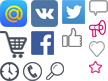
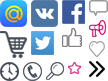
review page

diff --git a/reviews.html b/reviews.html
@@ -1,0 +1,183 @@
+<!DOCTYPE html>
+<html>
+  <head>
+    <meta charset="utf-8">
+    <title>Отзывы</title>
+    <meta name="viewport" content="width=device-width, initial-scale=1">
+    <meta name="format-detection" content="telephone=no">
+    <link rel="stylesheet" media="all" href="css/style.css">
+    <script src="js/app.js"></script>
+    <body class="page">
+      <!--BEGIN out-->
+      <div class="out">
+        <header class="site-header">
+          <nav class="main-menu">
+            <ul>
+              <li class="main-menu__item"><a href="">Главная</a></li>
+              <li class="main-menu__item"><a href="">Отзывы</a></li>
+              <li class="main-menu__item"><a href="">Возврат/Обмен</a></li>
+              <li class="main-menu__item"><a href="">Оплата</a></li>
+              <li class="main-menu__item"><a href="">Доставка</a></li>
+              <li class="main-menu__item"><a href="">Определить размер</a></li>
+              <li class="main-menu__item"><a href="">Частые вопросы</a></li>
+              <li class="main-menu__item"><a href="">Контакты</a></li>
+            </ul>
+          </nav>
+          <hr class="site-header__hr">
+          <div class="site-header__top">
+            <div class="container-wide">
+              <div class="site-header__slogan">
+                <p>Интернет-магазин брендовой обуви по всей России</p>
+              </div>
+              <div class="site-header__search search">
+                <input class="search__input" type="search" placeholder="Поиск">
+                <button class="search__btn" type="submit"></button>
+              </div>
+              <div class="site-header__choose">
+                <button class="btn btn-secondary">подобрать обувь</button>
+              </div>
+              <div class="site-header__hos"><i class="icon-clock"></i>
+                <p>Время работы<br><span class="text-red">Круглосуточно</span></p>
+              </div>
+              <div class="site-header__contacts"><i class="icon-phone"></i>
+                <p><a href="tel:89263787830">8 (926) 378 78 30</a><br><a href="mailto:we-run@mail.ru">we-run@mail.ru</a></p>
+              </div>
+              <div class="site-header__call">
+                <button class="btn btn-primary">ЗАКАЗАТЬ ЗВОНОК</button>
+              </div>
+              <div class="site-header__cart"><a href=""><i class="icon-cart"></i><span class="cart-amount"></span></a>
+                <p>Корзина</p>
+              </div>
+            </div>
+          </div>
+          <div class="site-header__middle">
+            <div class="site-header__menu">
+              <div class="container-wide">
+                <div class="site-header__logo"><a href="/">the-boots.ru</a></div>
+                <ul class="site-header__brands">
+                  <li><a href="">NIKE</a></li>
+                  <li><a href="">ADIDAS</a></li>
+                  <li><a href="">NEW BALANCE</a></li>
+                  <li><a href="">REEBOK</a></li>
+                  <li><a href="">PUMA</a></li>
+                  <li><a href="">ASICS</a></li>
+                  <li><a href="">SAUCONY</a></li>
+                  <li><a href="">CONVERSE</a></li>
+                  <li><a href="">VANS</a></li>
+                  <li><a href="">TIMBERLAND</a></li>
+                  <li><a href="">UGG AUSTRALIA</a></li>
+                </ul>
+                <div class="site-header__submenu">
+                  <ul>
+                    <li><a href="#">Новинки</a></li>
+                    <li><a href="#">Зимняя обувь</a></li>
+                    <li><a href="#">Баскетбольные</a></li>
+                    <li><a href="#">Кроссовки</a></li>
+                    <li><a href="#">Светящиеся кроссовки</a></li>
+                  </ul>
+                </div>
+              </div>
+            </div>
+            <div class="site-header__slider main-slider">
+              <div class="container-wide">
+                <div class="main-slider__bc">
+                  <ul>
+                    <li> <a href>каталог</a></li>
+                    <li>  <a href>Кроссовки</a></li>
+                    <li>  <a href>Nike</a></li>
+                    <li><a href>nike air max 90 glow in dark</a></li>
+                  </ul>
+                </div>
+                <div class="main-slider__text">
+                  <p>брендовые кроссовки<br> всего от<span class="text-red"> 2800 рублей</span></p>
+                  <button class="btn btn-primary">ПОСМОТРЕТЬ</button>
+                </div>
+              </div>
+            </div>
+          </div>
+        </header>
+        <div class="container-wide">
+          <div class="section right-col">
+            <h1 class="right-col__heading text-red">ОТЗЫВЫ</h1>
+            <div class="right-col__text">
+              <p>Мы гордимся тем, что публикуем только реальные отзывы настоящих людей, а не самописанные как широко практикуются недобросовестными "интернет-магазинами". Вы можете легко проверить реальность отзывов - для этого мы дали вам как можно больше информации по каждому из них. Благодарим этих покупателей за разрешение на публикацию их отзывов;) </p>
+              <p>Также хочется заметить, что мы дорожим Вашим временем. Поэтому за любой отзыв в независимости позитивный или негативный мы предоставляем скидочный купон на следующую покупку. Для нас действительно важен каждый отзыв. Спасибо Вам;) </p>
+            </div>
+            <hr class="right-col__hr">
+          </div>
+        </div>
+        <div class="subscribe">
+          <div class="container-small">
+            <p class="subscribe__text">Подпишитесь на нашу рассылку<br><span class="text-red">И ПОЛУЧАЙТЕ НОВОСТИ ПЕРВЫМИ!</span></p>
+            <div class="subscribe__form">
+              <form action="">
+                <input class="subscribe__input" type="email" placeholder="Введите e-mail">
+                <button class="btn btn-primary subscribe__btn" type="submit">ПОДПИСАТЬСЯ</button>
+              </form>
+            </div>
+          </div>
+        </div>
+        <footer class="site-footer">
+          <div class="container-small">
+            <div class="footer-list">
+              <div class="footer-list__item">
+                <p class="text-red">Кабинет покупателя:</p>
+                <ul>
+                  <li><a href="">Войти</a></li>
+                  <li><a href="">Создать учетную запись</a></li>
+                  <li><a href="">Заказы</a></li>
+                  <li><a href="">Как определить разммер</a></li>
+                </ul>
+              </div>
+              <div class="footer-list__item">
+                <p class="text-red">Каталог:</p>
+                <ul class="footer-list__catalog">
+                  <li><a href="">Светящие кроссовки</a></li>
+                  <li><a href="">Новинки</a></li>
+                  <li><a href="">Светящие кроссовки</a></li>
+                  <li><a href="">Новинки</a></li>
+                </ul>
+                <ul class="footer-list__catalog">
+                  <li><a href="">Кроссовки</a></li>
+                  <li><a href="">Кеды</a></li>
+                  <li><a href="">Ботинки</a></li>
+                  <li><a href="">Угги</a></li>
+                </ul>
+              </div>
+              <div class="footer-list__item">
+                <ul class="footer-list__work-info">
+                  <li><i class="icon icon-clock"></i>
+                    <p>Время работы<br><span class="text-red">Круглосуточно</span></p>
+                  </li>
+                  <li><i class="icon icon-call"></i>
+                    <p><a href="tel:89263787830">8 (926) 378 78 30</a><br><a href="mailto:we-run@mail.ru">we-run@mail.ru</a></p>
+                  </li>
+                </ul>
+              </div>
+              <div class="footer-list__item footer-list__callback">
+                <p>Обратный звонок<br><span class="text-red">БЕСПЛАТНО!</span></p>
+                <button class="btn btn-primary">ЗАКАЗАТЬ ЗВОНОК</button>
+              </div>
+            </div>
+          </div>
+          <div class="site-footer__bottom">
+            <div class="container-small">
+              <ul>
+                <li class="payment">
+                  <div class="box">оплата при получении</div><img src="img/visa.png" alt=""><img src="img/qiwi.png" alt=""><img src="img/yandex.png" alt="">
+                </li>
+                <li class="copy">
+                  <p>Интернет магазин The-Boots.ru<br><span class="text-red">2016</span></p>
+                </li>
+                <li class="delivery">
+                  <div class="box">курьерская доставка</div><img src="img/pochta.png" alt=""><img src="img/pickpoint.png" alt="">
+                </li>
+              </ul>
+            </div>
+          </div>
+        </footer>
+      </div>
+      <!--END out-->
+    </body>
+  </head>
+</html>

diff --git a/css/style.css b/css/style.css
@@ -27,7 +27,7 @@ i.icon-cart { background-image: url("../img/icons.png"); width: 27px; height: 27
 
 i.icon-clock { background-image: url("../img/icons.png"); width: 19px; height: 19px; background-position: 0px -62px; display: inline-block; vertical-align: top; }
 
-i.icon-fb { background-image: url("../img/icons.png"); width: 23px; height: 24px; background-position: -31px -31px; display: inline-block; vertical-align: top; }
+i.icon-fb { background-image: url("../img/icons.png"); width: 23px; height: 24px; background-position: -62px 0px; display: inline-block; vertical-align: top; }
 
 i.icon-heart { background-image: url("../img/icons.png"); width: 16px; height: 16px; background-position: -89px -41px; display: inline-block; vertical-align: top; }
 
@@ -41,9 +41,9 @@ i.icon-search { background-image: url("../img/icons.png"); width: 18px; height: 
 
 i.icon-share { background-image: url("../img/icons.png"); width: 17px; height: 17px; background-position: -89px -20px; display: inline-block; vertical-align: top; }
 
-i.icon-star { background-image: url("../img/icons.png"); width: 13px; height: 12px; background-position: -89px -61px; display: inline-block; vertical-align: top; }
+i.icon-star { background-image: url("../img/icons.png"); width: 13px; height: 12px; background-position: -68px -62px; display: inline-block; vertical-align: top; }
 
-i.icon-twitter { background-image: url("../img/icons.png"); width: 23px; height: 24px; background-position: -62px 0px; display: inline-block; vertical-align: top; }
+i.icon-twitter { background-image: url("../img/icons.png"); width: 23px; height: 24px; background-position: -31px -31px; display: inline-block; vertical-align: top; }
 
 i.icon-vk { background-image: url("../img/icons.png"); width: 27px; height: 27px; background-position: -31px 0px; display: inline-block; vertical-align: top; }
 
@@ -54,7 +54,7 @@ i.icon-vk { background-image: url("../img/icons.png"); width: 27px; height: 27px
 .text-center { text-align: center; margin: 0 auto; }
 .text-center .btn { padding: 10px 15px; color: white; font-size: 14px; font-weight: 400; }
 
-body { font-family: "Noto Sans"; font-size: 16px; font-weight: 400; }
+body { font-family: "Noto Sans"; font-size: 16px; font-weight: 400; min-width: 1280px; }
 
 .container { max-width: 1270px; width: 100%; margin: 0 auto; }
 .container-wide { max-width: 1400px; width: 100%; margin: 0 auto; position: relative; }
@@ -117,9 +117,15 @@ a:hover { color: #c06; }
 .main-menu__item a { color: #424a55; font-size: 14px; font-weight: 400; line-height: 18px; text-transform: uppercase; }
 .main-menu__item a:hover { color: #c06; }
 
-.main-slider { min-height: 415px; position: relative; }
-.main-slider img { width: 100%; height: 415px; }
-.main-slider__text { z-index: 1; position: absolute; top: 70px; left: 24%; font-size: 30px; font-weight: 400; line-height: 36px; text-transform: uppercase; color: #424a55; }
+.main-slider { height: 415px; background-image: url(../img/slider.jpg); background-repeat: no-repeat; background-size: cover; background-position: 50% 50%; }
+.main-slider__bc { display: none; }
+.page .main-slider { max-height: 60px; overflow: hidden; }
+.page .main-slider__text { display: none; }
+.page .main-slider__bc { display: block; position: absolute; top: 10px; left: 225px; }
+.page .main-slider__bc li { display: inline-block; vertical-align: top; margin-right: 15px; }
+.page .main-slider__bc li + li:before { content: ""; display: inline-block; vertical-align: top; margin-top: 2px; background-image: url("../img/icons.png"); width: 16px; height: 16px; background-position: -89px -61px; margin-right: 20px; }
+.page .main-slider__bc li a { color: black; font-size: 14px; font-weight: 400; text-transform: uppercase; }
+.main-slider__text { font-size: 30px; font-weight: 400; line-height: 36px; text-transform: uppercase; color: #424a55; padding-top: 70px; position: absolute; left: 18%; }
 .main-slider__text .btn { margin-top: 25px; color: white; font-size: 14px; font-weight: 400; line-height: 18px; padding: 15px 30px; }
 
 .advantages__list { margin-top: 30px; text-align: center; }
@@ -168,7 +174,7 @@ a:hover { color: #c06; }
 .reviewer__rate span { text-transform: none; }
 .reviewer__stars { display: inline-block; vertical-align: top; margin-right: 15px; }
 .reviewer__stars li { display: inline-block; vertical-align: top; }
-.reviewer__stars .icon-star { background-image: url("../img/icons.png"); width: 13px; height: 12px; background-position: -89px -61px; display: inline-block; }
+.reviewer__stars .icon-star { background-image: url("../img/icons.png"); width: 13px; height: 12px; background-position: -68px -62px; display: inline-block; }
 .reviewer__links { margin-bottom: 20px; }
 .reviewer__links li { display: inline-block; vertical-align: top; }
 .reviewer__links li + li { margin-left: 20px; }
@@ -192,7 +198,7 @@ a:hover { color: #c06; }
 .news__footer button { background: none; }
 .news__social { display: none; visibility: hidden; }
 
-.subscribe { padding-top: 15px; background-color: black; min-height: 80px; *zoom: 1; }
+.subscribe { clear: both; padding-top: 15px; background-color: black; min-height: 80px; *zoom: 1; }
 .subscribe:after { content: " "; display: table; clear: both; }
 .subscribe__text { display: inline-block; vertical-align: top; font-size: 14px; line-height: 18px; color: white; margin-right: 50px; }
 .subscribe__text span { font-weight: 700; }
@@ -223,6 +229,12 @@ a:hover { color: #c06; }
 .footer-list__callback p { font-size: 14px; line-height: 18px; color: #424a55; margin-bottom: 20px; }
 .footer-list__callback p span { font-weight: 700; }
 .footer-list__callback .btn { color: white; font-size: 14px; line-height: 18px; padding: 11px 20px; }
+
+.right-col { margin-left: 225px; }
+.right-col__heading { font-size: 18px; font-weight: 400; line-height: 16px; margin-bottom: 30px; }
+.right-col__text { color: #333; font-size: 12px; font-weight: 400; line-height: 18px; }
+.right-col__text p + p { margin-top: 20px; }
+.right-col__hr { border: 0; height: 1px; background-color: #c6c6c6; margin: 30px 0; }
 @media only screen and (min-device-width: 320px) and (max-device-width: 480px) {
 
  * { -webkit-text-size-adjust: none; } }

diff --git a/review.html b/review.html
@@ -2,12 +2,12 @@
 <html>
   <head>
     <meta charset="utf-8">
-    <title>Главная</title>
+    <title>Отзывы</title>
     <meta name="viewport" content="width=device-width, initial-scale=1">
     <meta name="format-detection" content="telephone=no">
     <link rel="stylesheet" media="all" href="css/style.css">
     <script src="js/app.js"></script>
-    <body class="index">
+    <body class="asdf">
       <!--BEGIN out-->
       <div class="out">
         <header class="site-header">
@@ -78,20 +78,10 @@
                 </div>
               </div>
             </div>
-            <div class="site-header__slider main-slider">
-              <div class="container-wide">
-                <div class="main-slider__bc">
-                  <ul>
-                    <li> <a href>каталог</a></li>
-                    <li>  <a href>Кроссовки</a></li>
-                    <li>  <a href>Nike</a></li>
-                    <li><a href>nike air max 90 glow in dark</a></li>
-                  </ul>
-                </div>
-                <div class="main-slider__text">
-                  <p>брендовые кроссовки<br> всего от<span class="text-red"> 2800 рублей</span></p>
-                  <button class="btn btn-primary">ПОСМОТРЕТЬ</button>
-                </div>
+            <div class="site-header__slider main-slider"><img src="img/slider.jpg" alt="">
+              <div class="main-slider__text">
+                <p>брендовые кроссовки<br> всего от<span class="text-red"> 2800 рублей</span></p>
+                <button class="btn btn-primary">ПОСМОТРЕТЬ</button>
               </div>
             </div>
           </div>
